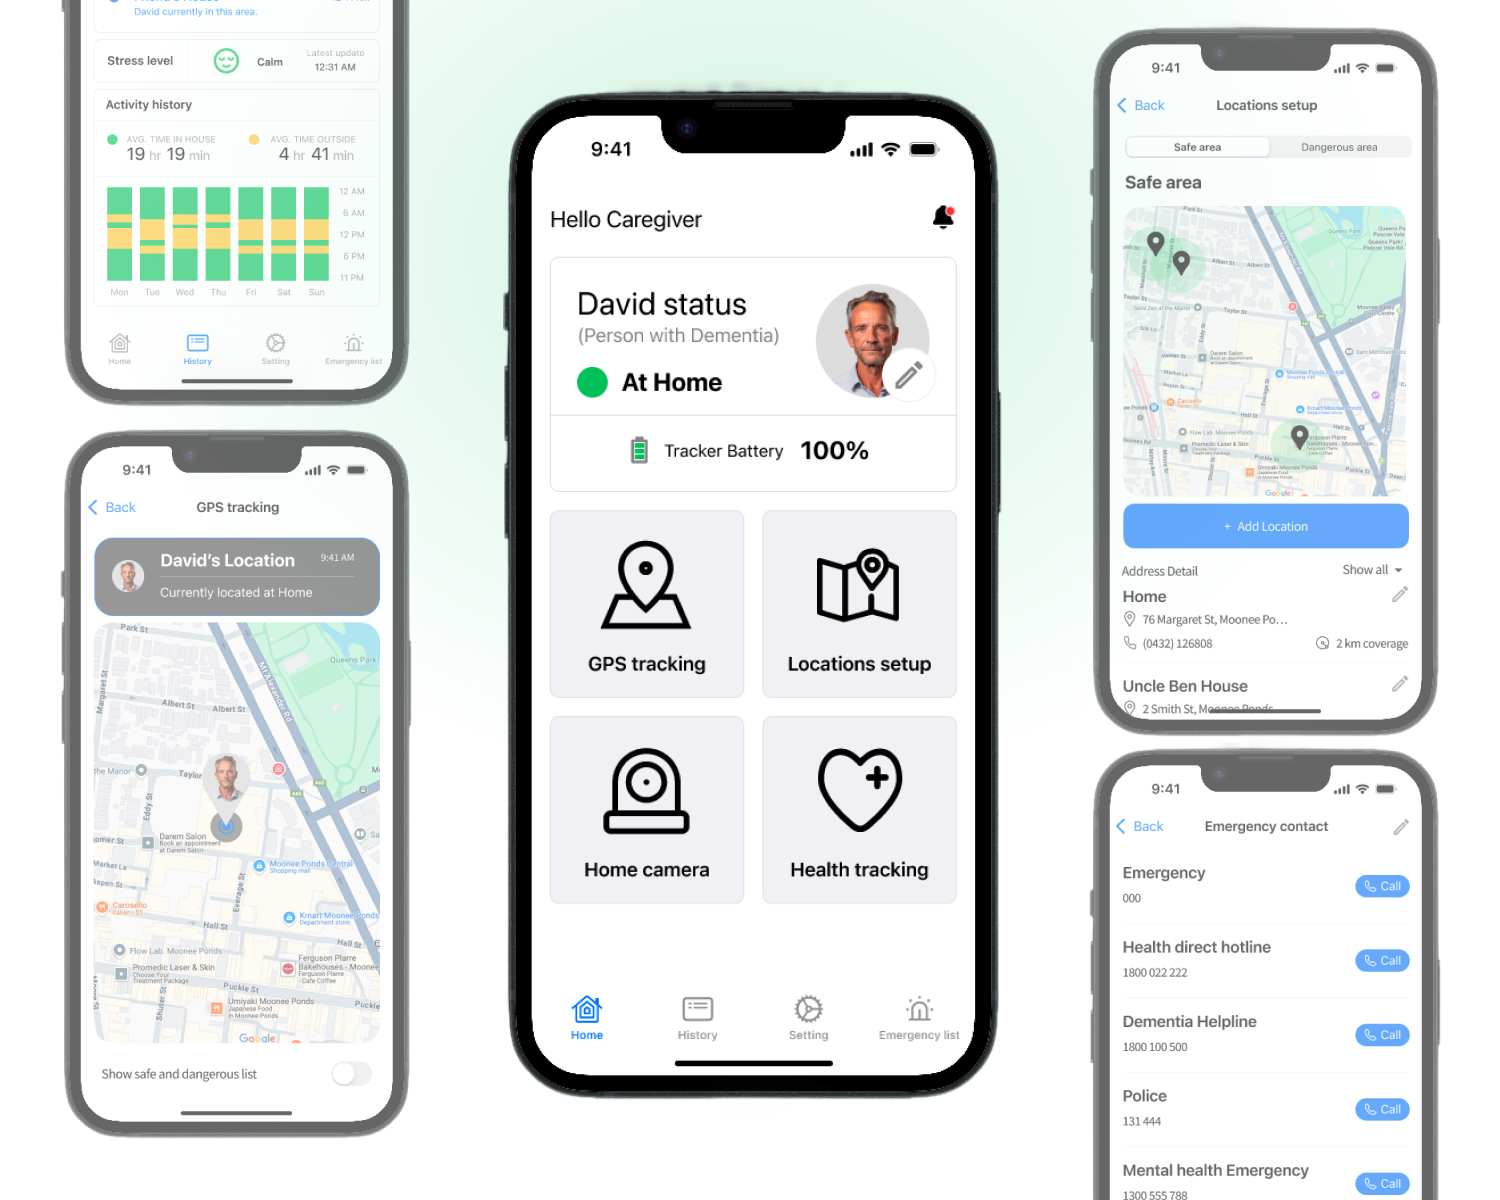
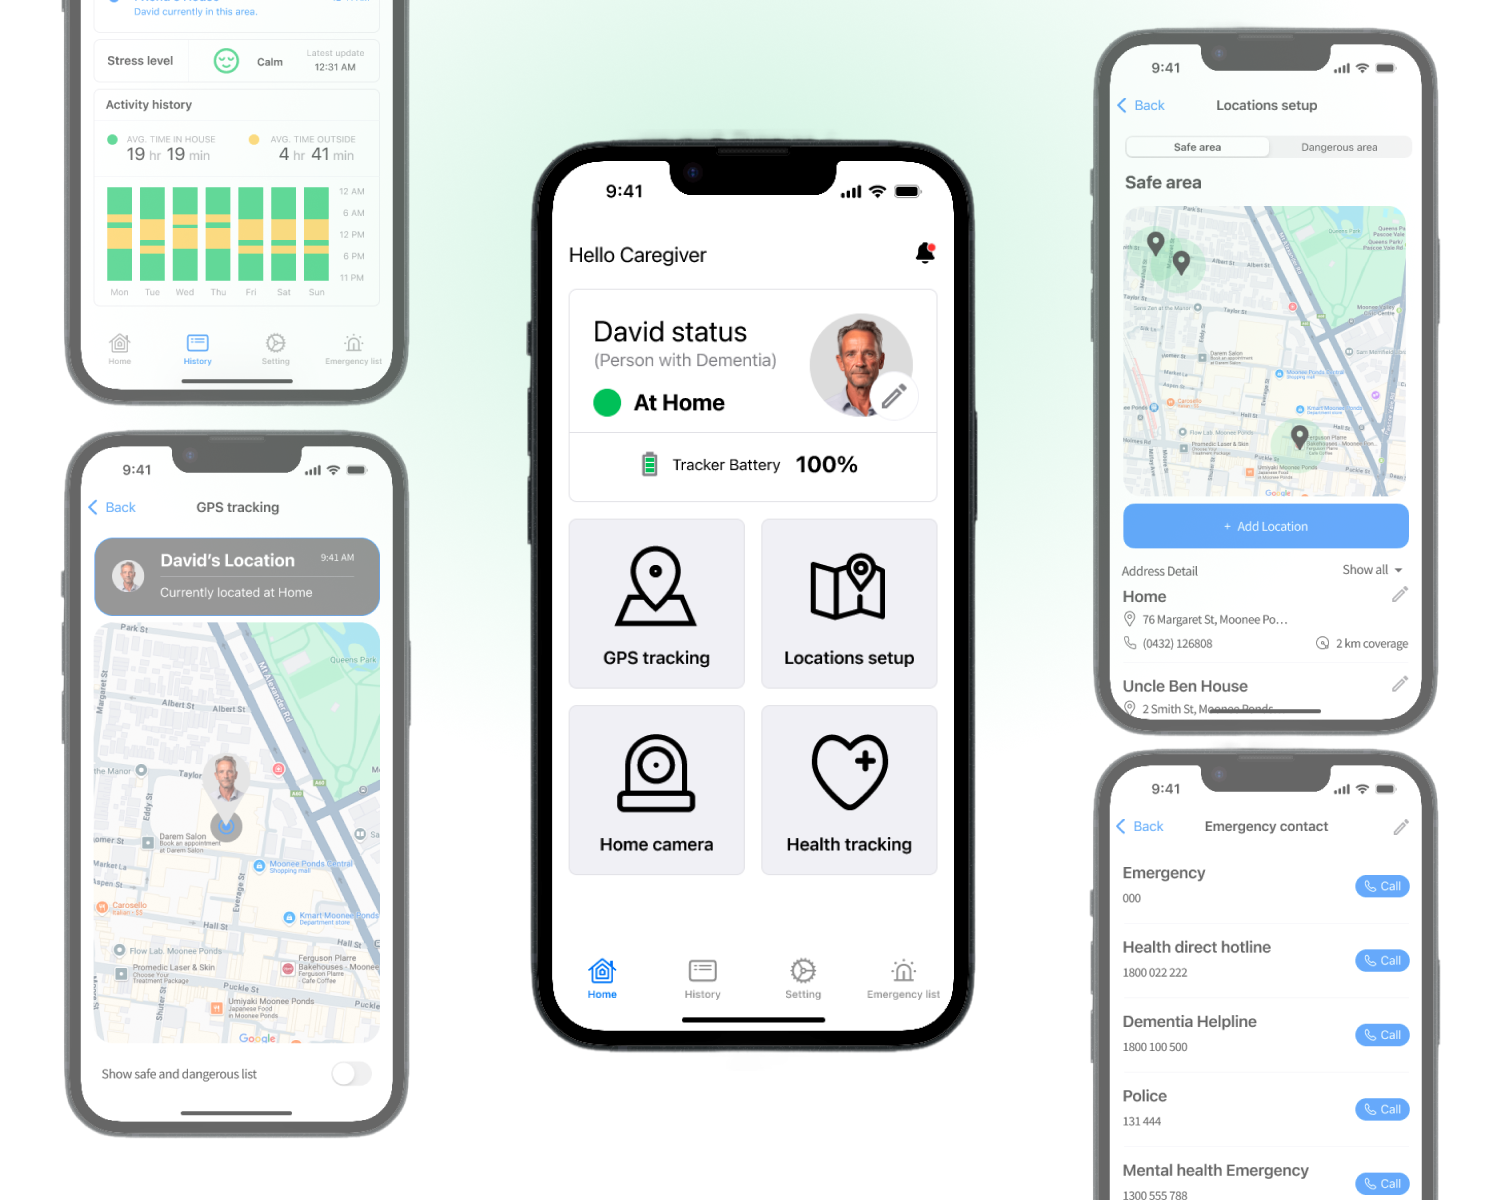
dementia case update

Changed region(s): [[0.3373, 0.0617, 0.6747, 0.925], [0.3987, 0.4317, 0.4907, 0.74]]

diff --git a/src/content/case-studies/dementia-app.ts b/src/content/case-studies/dementia-app.ts
@@ -19,7 +19,7 @@ const dementiaAppCaseStudy = {
     "meta": [
       {
         "label": "Role",
-        "value": "2024 · designed and ran the team evaluation. 2026 · solo re-analysis into a redesign brief."
+        "value": "2024 · designed and ran as team. 2026 · solo re-analysis into a redesign."
       },
       {
         "label": "Team",
@@ -31,7 +31,7 @@ const dementiaAppCaseStudy = {
       },
       {
         "label": "Status",
-        "value": "Evaluation complete. Re-analysis complete. 2026 redesign in progress."
+        "value": "Evaluation, re-analysis complete. Redesign in progress."
       }
     ]
   },

diff --git a/src/content/case-studies/dementia-app.md b/src/content/case-studies/dementia-app.md
@@ -12,13 +12,13 @@ hero:
     alt: The prototype's home screen alongside a study of the eight tasks the evaluation tested
   meta:
     - label: Role
-      value: 2024 · designed and ran the team evaluation. 2026 · solo re-analysis into a redesign brief.
+      value: 2024 · designed and ran as team. 2026 · solo re-analysis into a redesign.
     - label: Team
       value: Team of four in 2024. Solo for the 2026 re-analysis.
     - label: Duration
       value: 6-week evaluation in 2024. Re-analysis in 2026.
     - label: Status
-      value: Evaluation complete. Re-analysis complete. 2026 redesign in progress.
+      value: Evaluation, re-analysis complete. Redesign in progress.
 ---
 
 # brief
